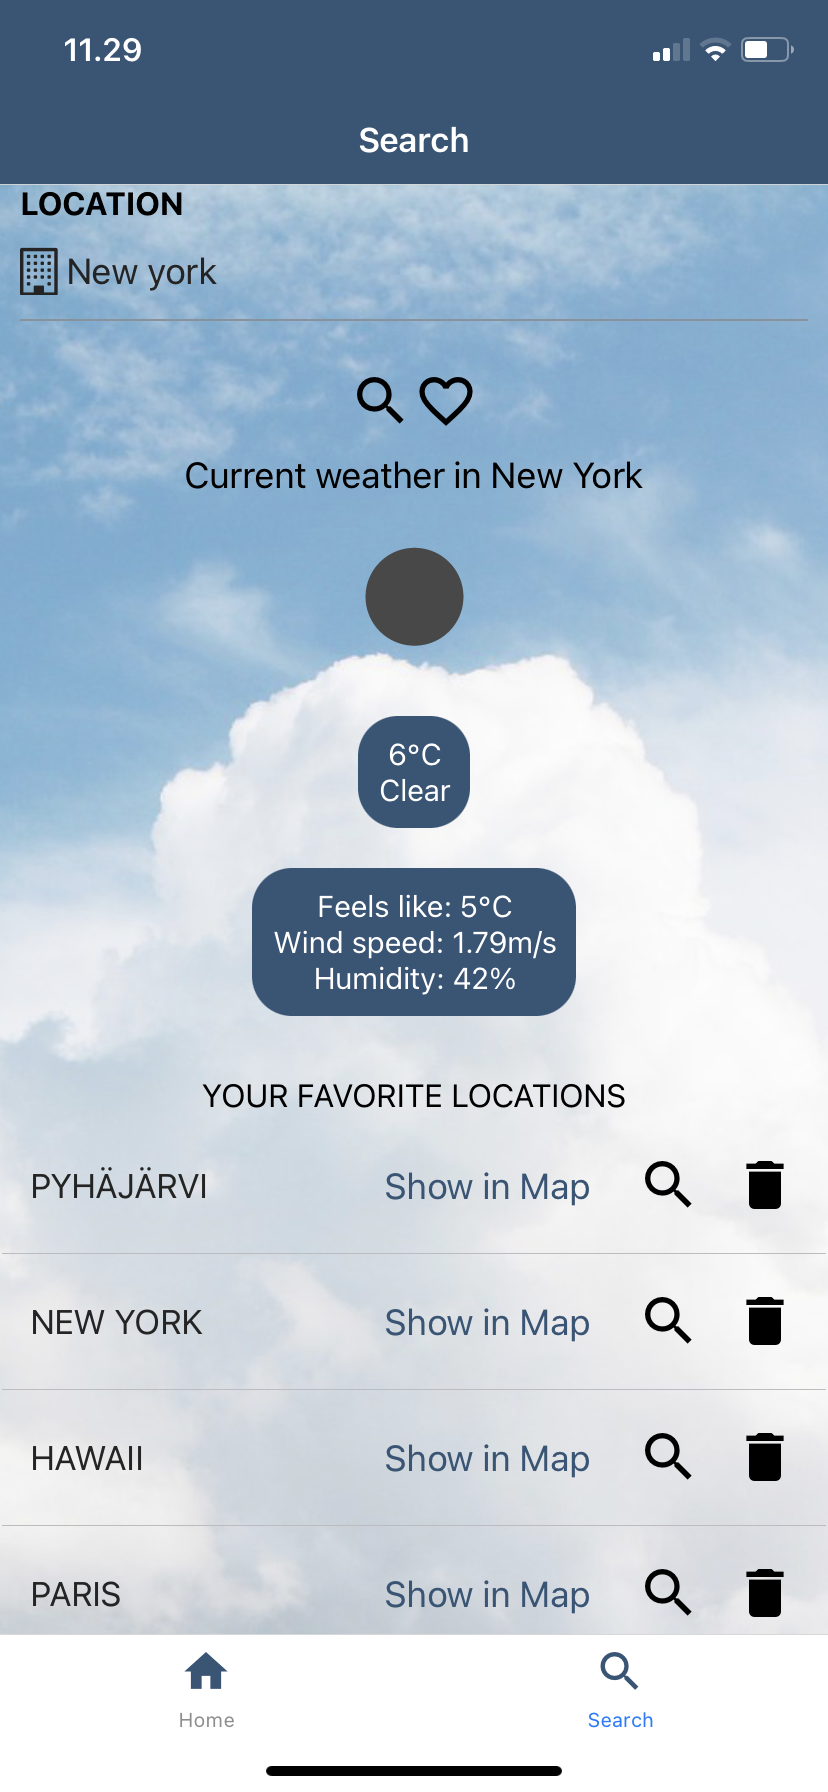
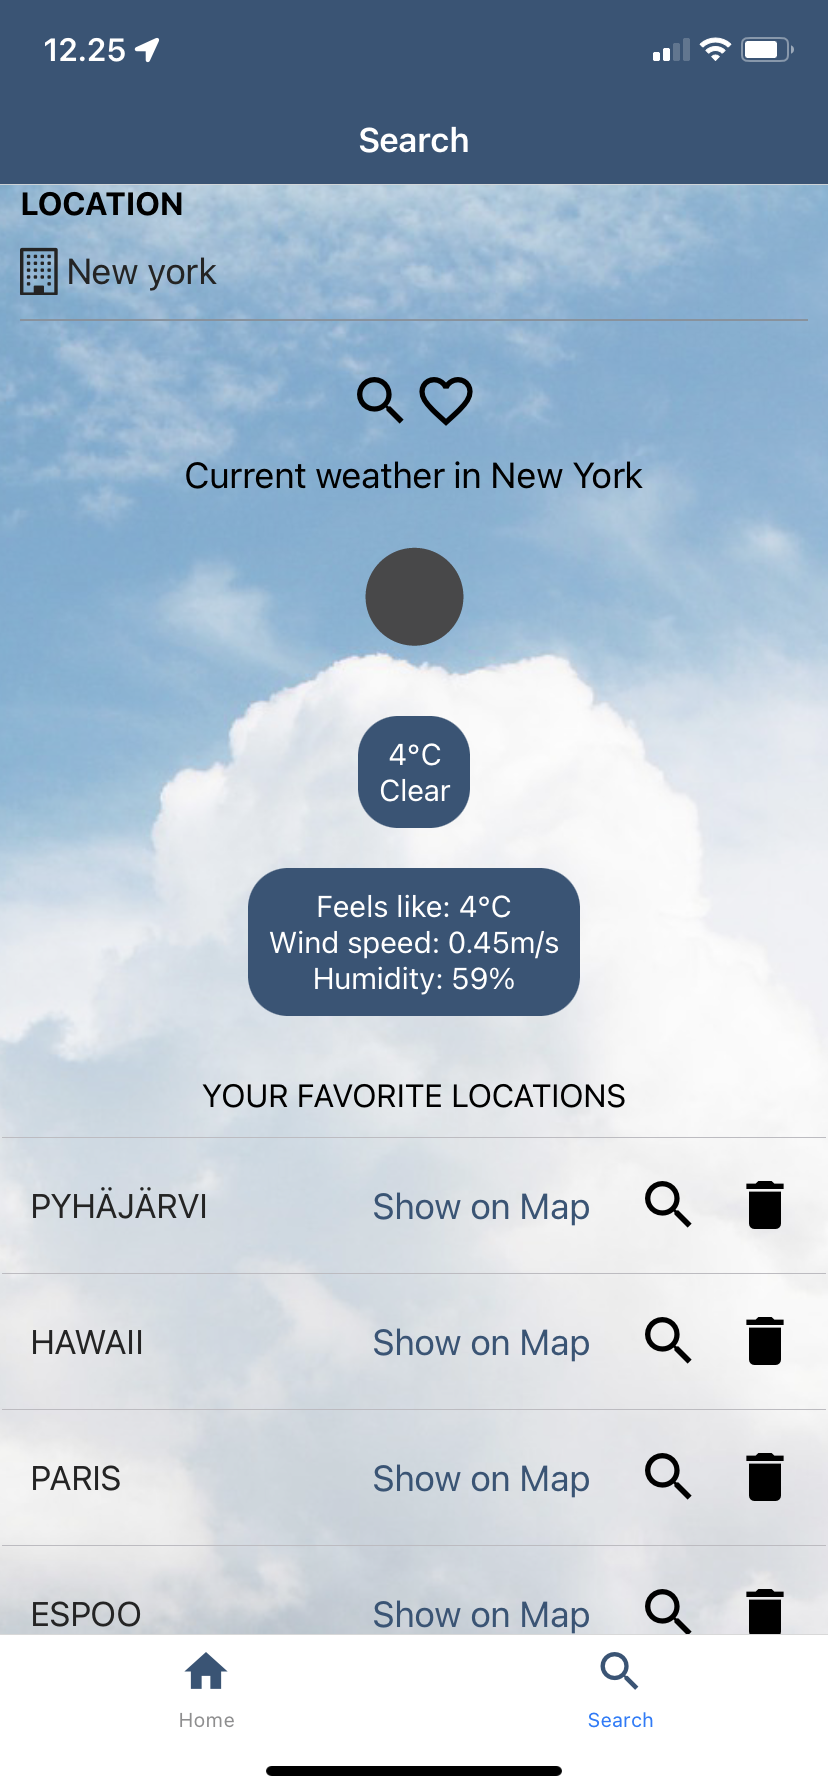
Adding new pictures and cleaning code

diff --git a/screens/Home.js b/screens/Home.js
@@ -60,52 +60,52 @@ export default function Home() {
     return (
         <View style={styles.container}>
             <ImageBackground source={require('../assets/blue.jpg')} style={{ flex: 1 }}>
-                <ScrollView>
-                    <Text style={styles.title}>Current Weather</Text>
-                    <Text style={{ textAlign: 'center', fontSize: 20 }}>in {currentLocation}</Text>
-                    <View style={styles.currentWeather}>
-                        <Image style={styles.icon} source={{
-                            uri: `http://openweathermap.org/img/wn/${current.icon}@4x.png`
-                        }}
-                        />
+            <ScrollView>
+                <Text style={styles.title}>Current Weather</Text>
+                <Text style={{ textAlign: 'center', fontSize: 20 }}>in {currentLocation}</Text>
+                <View style={styles.currentWeather}>
+                    <Image style={styles.icon} source={{
+                        uri: `http://openweathermap.org/img/wn/${current.icon}@4x.png`
+                    }}
+                    />
+                </View>
+                <View style={styles.info}>
+                    <View style={styles.weatherInfo}>
+                        <Text style={styles.temperature}>{Math.round(weather.current.temp)}°C</Text>
+                        <Text style={styles.description}>{current.description}</Text>
                     </View>
-                    <View style={styles.info}>
-                        <View style={styles.weatherInfo}>
-                            <Text style={styles.temperature}>{Math.round(weather.current.temp)}°C</Text>
-                            <Text style={styles.description}>{current.description}</Text>
-                        </View>
+                </View>
+                <View style={styles.info}>
+                    <View style={styles.weatherInfo}>
+                        <Text style={{ fontSize: 15, textAlign: 'center', color: 'white' }}> Feels like: {Math.round(weather.current.feels_like)}°C</Text>
+                        <Text style={{ fontSize: 15, textAlign: 'center', color: 'white' }}> Wind speed: {(weather.current.wind_speed).toFixed(1)}m/s</Text>
+                        <Text style={{ fontSize: 15, textAlign: 'center', color: 'white' }}>Humidity: {weather.current.humidity}%</Text>
+                        <Text style={{ fontSize: 15, textAlign: 'center', color: 'white' }}>UV index: {weather.current.uvi}</Text>
                     </View>
-                    <View style={styles.info}>
-                        <View style={styles.weatherInfo}>
-                            <Text style={{ fontSize: 15, textAlign: 'center', color: 'white' }}> Feels like: {Math.round(weather.current.feels_like)}°C</Text>
-                            <Text style={{ fontSize: 15, textAlign: 'center', color: 'white' }}> Wind speed: {(weather.current.wind_speed).toFixed(1)}m/s</Text>
-                            <Text style={{ fontSize: 15, textAlign: 'center', color: 'white' }}>Humidity: {weather.current.humidity}%</Text>
-                            <Text style={{ fontSize: 15, textAlign: 'center', color: 'white' }}>UV index: {weather.current.uvi}</Text>
-                        </View>
-                    </View>
-                    <View>
-                        <Text style={{ textAlign: 'center', fontSize: 20, paddingTop: 30 }}>24 hour forecast for {currentLocation}</Text>
-                        <FlatList horizontal
-                            data={weather.hourly.slice(1, 26)}
-                            keyExtractor={(item, index) => index.toString()}
-                            renderItem={(hour) => {
-                                const hourlyForecast = hour.item.weather[0];
-                                const date = new Date(hour.item.dt * 1000);
+                </View>
+                <View>
+                    <Text style={{ textAlign: 'center', fontSize: 20, paddingTop: 30 }}>24 hour forecast for {currentLocation}</Text>
+                    <FlatList horizontal
+                        data={weather.hourly.slice(1, 26)}
+                        keyExtractor={(item, index) => index.toString()}
+                        renderItem={(hour) => {
+                            const hourlyForecast = hour.item.weather[0];
+                            const date = new Date(hour.item.dt * 1000);
                             return <View style={{ alignItems: 'center', padding: 20 }}>
-                            <Text>{date.toLocaleTimeString([], {hour: '2-digit', minute:'2-digit'})}</Text>
-                            <Text>{Math.round(hour.item.temp)}°C</Text>
-                            <Image
-                                style={{ width: 150, height: 150 }}
-                                source={{
-                                uri: `http://openweathermap.org/img/wn/${hourlyForecast.icon}@4x.png`
-                                }}
-                            />
-                            <Text style={{ textTransform: 'capitalize' }}>{hourlyForecast.description}</Text>
+                                <Text>{date.toLocaleTimeString([], {hour: '2-digit', minute:'2-digit'})}</Text>
+                                <Text>{Math.round(hour.item.temp)}°C</Text>
+                                <Image
+                                    style={{ width: 150, height: 150 }}
+                                    source={{
+                                    uri: `http://openweathermap.org/img/wn/${hourlyForecast.icon}@4x.png`
+                                    }}
+                                />
+                                <Text style={{ textTransform: 'capitalize' }}>{hourlyForecast.description}</Text>
                             </View>
-                            }}
-                        />
-                    </View>
-                </ScrollView>
+                        }}
+                    />
+                </View>
+            </ScrollView>
             </ImageBackground>
         </View>
     );
@@ -150,11 +150,11 @@ const styles = StyleSheet.create({
         backgroundColor: '#335577',
         padding: 10,
         borderRadius: 20,
-        justifyContent: 'center',
+        justifyContent: 'center'
     },
     info: {
         flexDirection: 'row',
         justifyContent: 'center',
         padding: 10
       }
-})
+});

diff --git a/screens/Search.js b/screens/Search.js
@@ -40,22 +40,19 @@ export default function Search({ navigation }) {
         }),
       });
 
-      useEffect(() => {
+    useEffect(() => {
         registerForPushNotificationsAsync();
-
         notificationListener.current = Notifications.addNotificationReceivedListener(notification => {
           setNotification(notification);
         });
-    
         responseListener.current = Notifications.addNotificationResponseReceivedListener(response => {
           console.log(response);
         });
-    
         return () => {
           Notifications.removeNotificationSubscription(notificationListener.current);
           Notifications.removeNotificationSubscription(responseListener.current);
         };
-      }, []);
+    }, []);
 
     // Creating database table for cities.
     useEffect(() => {
@@ -114,7 +111,7 @@ export default function Search({ navigation }) {
           );
     };
 
-    // This async function plays soud when user deletes city from his favorites list.
+    // This async function plays soud when user deletes city from favorite locations list.
     async function playSound() {
         const { sound } = await Audio.Sound.createAsync(
             require("../assets/soundmp.mp3")
@@ -131,7 +128,7 @@ export default function Search({ navigation }) {
           : undefined;
       }, [sound]);
 
-    // Every time user searches new city, fetchLocationData will fetch the new data.
+    // Every time user searches a new city, fetchLocationData will fetch the new data.
     useEffect(() => {
         fetchLocationData('Helsinki');
     }, []);
@@ -194,10 +191,10 @@ export default function Search({ navigation }) {
                     />
                 </View>
                 <View style={styles.info}>
-                <View style={styles.weatherInfo}>
-                    <Text style={styles.temperature}>{Math.round(temp)}°C</Text>
-                    <Text style={styles.description}>{description}</Text>
-                </View>   
+                    <View style={styles.weatherInfo}>
+                        <Text style={styles.temperature}>{Math.round(temp)}°C</Text>
+                        <Text style={styles.description}>{description}</Text>
+                    </View>   
                 </View>             
                 <View style={styles.info}>
                     <View style={styles.weatherInfo}>
@@ -211,11 +208,11 @@ export default function Search({ navigation }) {
                     keyExtractor={item => item.id.toString()} 
                     data={cities} 
                     renderItem={({ item }) => (
-                    <ListItem containerStyle={{backgroundColor: 'transparent'}} topDivider >
+                    <ListItem containerStyle={{ backgroundColor: 'transparent' }} topDivider >
                         <ListItem.Content>
                             <ListItem.Title>{item.city.toUpperCase()}</ListItem.Title>
                         </ListItem.Content>
-                        <Button title="Show in Map" titleStyle={{ color: '#335577' }} type="clear" onPress={() => { getCoordinatesToCity(item.city); }} />
+                        <Button title="Show on Map" titleStyle={{ color: '#335577' }} type="clear" onPress={() => { getCoordinatesToCity(item.city); }} />
                         <MaterialCommunityIcons name="magnify" size={32} onPress={() => fetchLocationData(item.city)} />
                         <MaterialCommunityIcons name="delete" size={32} onPress={() => { deleteItem(item.id); }} />
                     </ListItem>
@@ -226,7 +223,7 @@ export default function Search({ navigation }) {
     );
 
     // This function shows user a notification when a new city is
-    // addded to favorite locations
+    // addded to favorite locations.
     async function schedulePushNotification() {
         await Notifications.scheduleNotificationAsync({
           content: {
@@ -239,20 +236,20 @@ export default function Search({ navigation }) {
 
     // This async function will ask permission to use Expo notifications
     async function registerForPushNotificationsAsync() {
-    if (Constants.isDevice) {
-        const { status: existingStatus } = await Notifications.getPermissionsAsync();
-        let finalStatus = existingStatus;
-        if (existingStatus !== 'granted') {
-        const { status } = await Notifications.requestPermissionsAsync();
-        finalStatus = status;
+        if (Constants.isDevice) {
+            const { status: existingStatus } = await Notifications.getPermissionsAsync();
+            let finalStatus = existingStatus;
+            if (existingStatus !== 'granted') {
+                const { status } = await Notifications.requestPermissionsAsync();
+                finalStatus = status;
+            }
+            if (finalStatus !== 'granted') {
+                alert('Failed to get push token for push notification!');
+                return;
+            }
+        } else {
+            alert('Must use physical device for Push Notifications');
         }
-        if (finalStatus !== 'granted') {
-        alert('Failed to get push token for push notification!');
-        return;
-        }
-    } else {
-        alert('Must use physical device for Push Notifications');
-    }
     }
 };
 
@@ -288,7 +285,7 @@ const styles = StyleSheet.create({
         backgroundColor: '#335577',
         padding: 10,
         borderRadius: 20,
-        justifyContent: 'center',
+        justifyContent: 'center'
     },
     info: {
         flexDirection: 'row',
@@ -301,7 +298,7 @@ const styles = StyleSheet.create({
       },
       list: {
         padding: 1,
-        width: '100%',
+        width: '100%'
       }
-})
+});
 

diff --git a/screens/Map.js b/screens/Map.js
@@ -60,25 +60,25 @@ useEffect(() => {
       <ImageBackground source={require('../assets/sunset.jpg')} style={{ flex: 1 }}>
         <View style={styles.weatherInfo}>
           <Text style={{ fontSize: 20, textAlign: 'center', paddingTop: 10 }}>{city.toUpperCase()}</Text>
-            <Text style={{ fontSize: 15, textAlign: 'center' }}>{Math.round(temp)}°C</Text>
-            <Text style={{ fontSize: 15, textAlign: 'center' }}>{description}</Text>
-            <View style={styles.currentWeather}>
-              <Image style={{ width: 100, height: 100 }}
-                source={{
-                uri: `http://openweathermap.org/img/wn/${icon}@4x.png`
-                }}
-              />
-            </View>
-          </View>
-          <MapView 
-            style={{flex: 1, width: '100%', height: '100%' }}
-            region={region}>
-            <Marker 
-              coordinate={coordinates}
-              pinColor='#335577'
-              title={city}
+          <Text style={{ fontSize: 15, textAlign: 'center' }}>{Math.round(temp)}°C</Text>
+          <Text style={{ fontSize: 15, textAlign: 'center' }}>{description}</Text>
+          <View style={styles.currentWeather}>
+            <Image style={{ width: 100, height: 100 }}
+              source={{
+              uri: `http://openweathermap.org/img/wn/${icon}@4x.png`
+              }}
             />
-          </MapView>
+          </View>
+        </View>
+        <MapView 
+          style={{flex: 1, width: '100%', height: '100%' }}
+          region={region}>
+          <Marker 
+            coordinate={coordinates}
+            pinColor='#335577'
+            title={city}
+          />
+        </MapView>
       </ImageBackground>
     </View>
   );
@@ -86,7 +86,7 @@ useEffect(() => {
 
 const styles = StyleSheet.create({
   container: {
-    flex: 1,
+    flex: 1
   },
   weatherInfo: {
     flex: 0.3

diff --git a/navigation/TabNavigator.js b/navigation/TabNavigator.js
@@ -8,21 +8,23 @@ const Tab = createBottomTabNavigator();
 export default function BottomTabNavigator() {
   return (
     // Home and Search pages, bottom tab menu for our app
-    <Tab.Navigator screenOptions={{headerShown: false}} >
+    <Tab.Navigator screenOptions={{ headerShown: false }} >
       <Tab.Screen name="Home" component={HomeStackNavigator}
         options={{
-          tabBarLabel: 'Home',
+          tabBarLabel:'Home',
           tabBarIcon: () => (
             <MaterialCommunityIcons name="home" color="#335577" size={26} />
           )
-        }} />
+        }}
+      />
       <Tab.Screen name="Search" component={SearchStackNavigator}
         options={{
-          tabBarLabel: 'Search',
+          tabBarLabel:'Search',
           tabBarIcon: () => (
             <MaterialCommunityIcons name="magnify" color="#335577" size={26} />
           )
-        }} />
+        }}
+      />
     </Tab.Navigator>
   );
 };

diff --git a/navigation/StackNavigator.js b/navigation/StackNavigator.js
@@ -8,7 +8,7 @@ const Stack = createStackNavigator();
 
 const screenOptionStyle = {
   headerStyle: {
-    backgroundColor: '#335577',
+    backgroundColor: '#335577'
   },
   headerTintColor: '#fff'
 };
